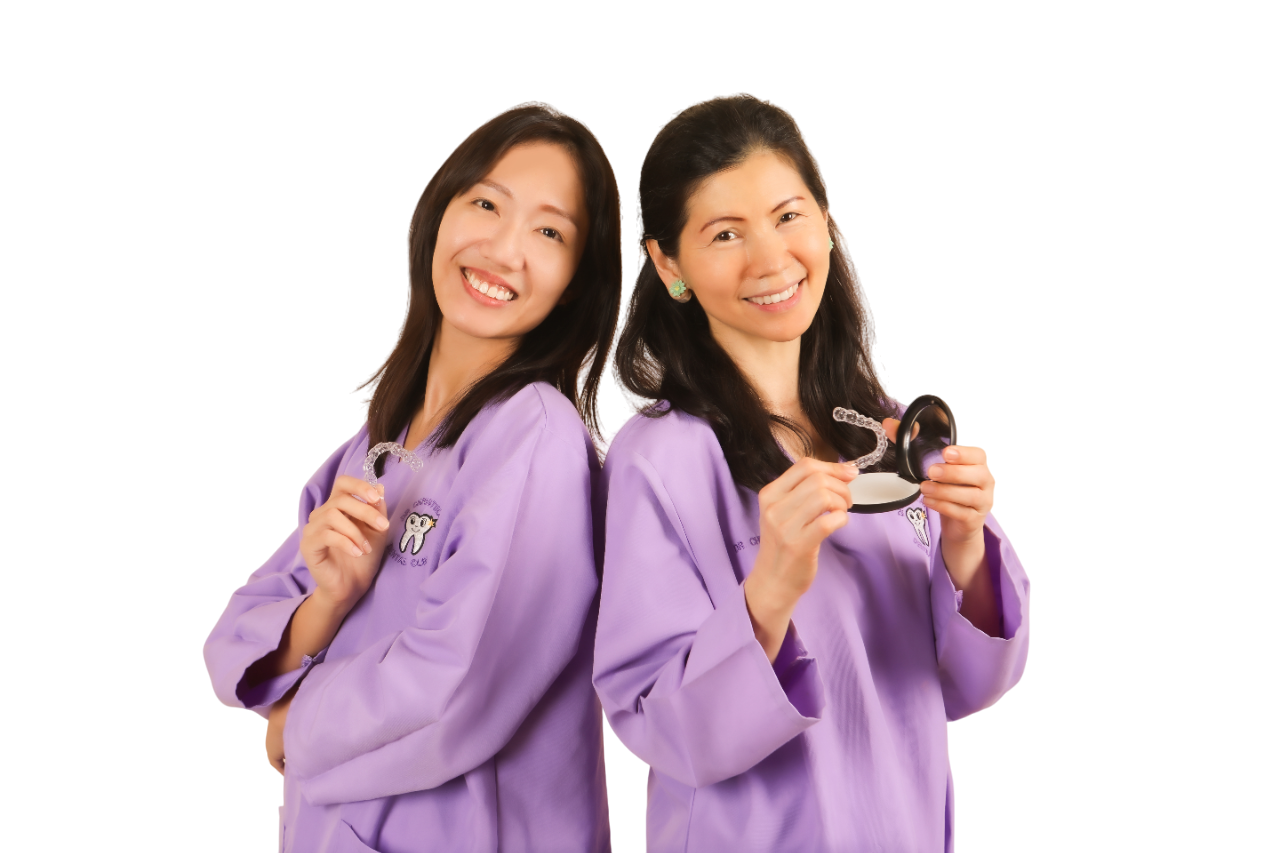
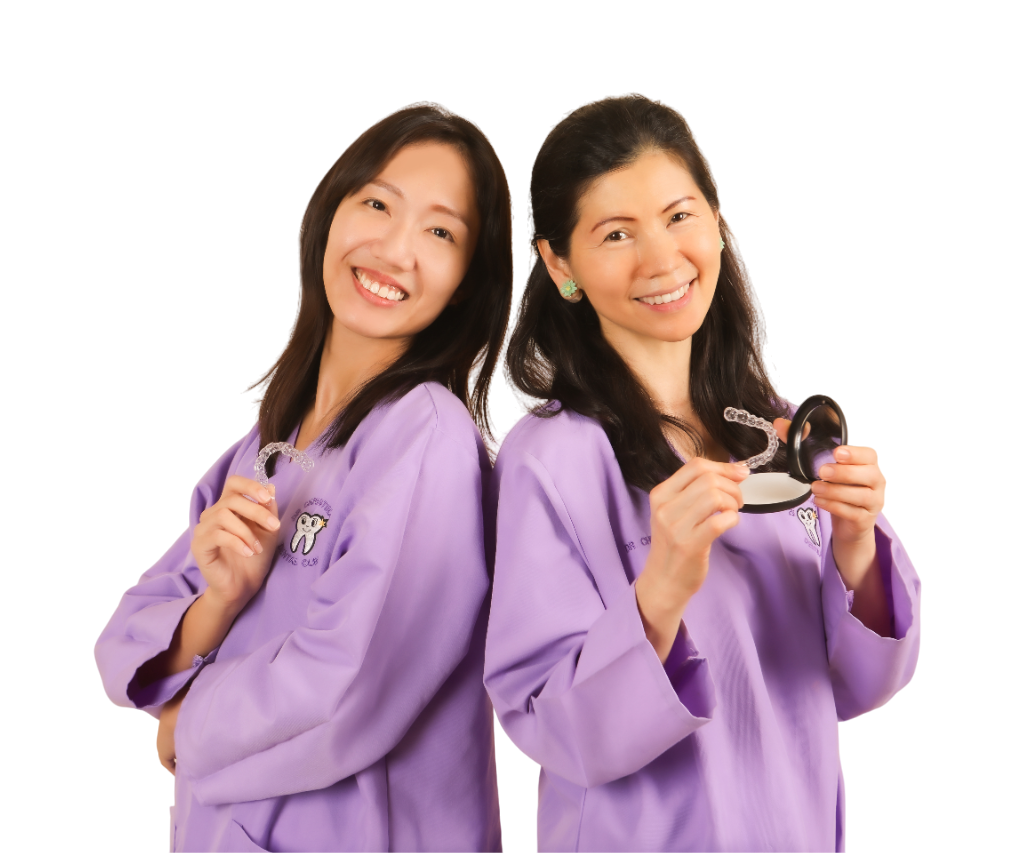
change hero section of index

diff --git a/index.html b/index.html
@@ -16,36 +16,83 @@
 <body class="home-page">
     <div id="navbar-placeholder"></div>
     
-    <div id="home" class="container-fluid px-5 d-flex flex-column" style="min-height: calc(100vh - 76px); padding-top: 76px;">
-        <div class="container-xxl mx-auto h-100">
-            <div class="row h-100">
-                <div class="col-12 col-lg-6 d-flex flex-column gap-4 animate-down pt-0">
-                    <h1 class="display-2 fw-bold animate-down">
-                        Say <span class="text-primary">👋</span> Goodbye<br>
-                        to Dental Problems,<br>
-                        We Value Your Smile <span class="text-primary">✨</span>
-                    </h1>
-                    <div class="schedule-btn-container animate-left delay-2">
-                        <a href="https://wa.me/60135644066?text=Hi,%20I'm%20interested%20in%20scheduling%20a%20dental%20appointment.%20Could%20you%20please%20help%20me%20with%20the%20available%20time%20slots?" 
-                           target="_blank" 
-                           rel="noopener noreferrer" 
-                           class="btn btn-lg px-4 py-2 fw-bold d-inline-flex align-items-center gap-2 schedule-btn">
-                            <svg xmlns="http://www.w3.org/2000/svg" width="20" height="20" fill="currentColor" class="bi bi-whatsapp" viewBox="0 0 16 16">
-                                <path d="M13.601 2.326A7.854 7.854 0 0 0 7.994 0C3.627 0 .068 3.558.064 7.926c0 1.399.366 2.76 1.057 3.965L0 16l4.204-1.102a7.933 7.933 0 0 0 3.79.965h.004c4.368 0 7.926-3.558 7.93-7.93A7.898 7.898 0 0 0 13.6 2.326zM7.994 14.521a6.573 6.573 0 0 1-3.356-.92l-.24-.144-2.494.654.666-2.433-.156-.251a6.56 6.56 0 0 1-1.007-3.505c0-3.626 2.957-6.584 6.591-6.584a6.56 6.56 0 0 1 4.66 1.931 6.557 6.557 0 0 1 1.928 4.66c-.004 3.639-2.961 6.592-6.592 6.592zm3.615-4.934c-.197-.099-1.17-.578-1.353-.646-.182-.065-.315-.099-.445.099-.133.197-.513.646-.627.775-.114.133-.232.148-.43.05-.197-.1-.836-.308-1.592-.985-.59-.525-.985-1.175-1.103-1.372-.114-.198-.011-.304.088-.403.087-.088.197-.232.296-.346.1-.114.133-.198.198-.33.065-.134.034-.248-.015-.347-.05-.099-.445-1.076-.612-1.47-.16-.389-.323-.335-.445-.34-.114-.007-.247-.007-.38-.007a.729.729 0 0 0-.529.247c-.182.198-.691.677-.691 1.654 0 .977.71 1.916.81 2.049.098.133 1.394 2.132 3.383 2.992.47.205.84.326 1.129.418.475.152.904.129 1.246.08.38-.058 1.171-.48 1.338-.943.164-.464.164-.86.114-.943-.049-.084-.182-.133-.38-.232z"/>
-                            </svg>
-                            Schedule a Visit
-                        </a>
+    <div id="home" class="container-fluid px-5 position-relative overflow-hidden">
+        <div class="container-xxl mx-auto py-5">
+            <div class="row align-items-center">
+                <!-- Text Column -->
+                <div class="col-12 col-lg-6 d-flex flex-column">
+                    <div class="mb-4">
+                        <h1 class="display-2 fw-bold mb-2">
+                            Say <span class="text-primary">👋</span> Goodbye<br>
+                            to Dental Problems,<br>
+                            We Value Your Smile <span class="text-primary">✨</span>
+                        </h1>
+                        <p class="text-secondary fw-bold">
+                            Dr Christina Dental Clinic - Professional dental care for your whole family's healthy smiles.
+                        </p>
+                    </div>
+                    
+                    <div class="d-flex flex-column gap-4">
+                        <div class="d-flex align-items-center gap-3">
+                            <!-- WhatsApp button -->
+                            <a href="https://wa.me/60135644066?text=Hi,%20I'm%20interested%20in%20scheduling%20a%20dental%20appointment.%20Could%20you%20please%20help%20me%20with%20the%20available%20time%20slots?" 
+                               target="_blank" 
+                               rel="noopener noreferrer" 
+                               class="btn px-4 py-2 fw-bold d-inline-flex align-items-center gap-2 schedule-btn"
+                               style="width: fit-content; border-radius: 50px;">
+                                <svg xmlns="http://www.w3.org/2000/svg" width="20" height="20" fill="currentColor" class="bi bi-whatsapp" viewBox="0 0 16 16">
+                                    <path d="M13.601 2.326A7.854 7.854 0 0 0 7.994 0C3.627 0 .068 3.558.064 7.926c0 1.399.366 2.76 1.057 3.965L0 16l4.204-1.102a7.933 7.933 0 0 0 3.79.965h.004c4.368 0 7.926-3.558 7.93-7.93A7.898 7.898 0 0 0 13.6 2.326zM7.994 14.521a6.573 6.573 0 0 1-3.356-.92l-.24-.144-2.494.654.666-2.433-.156-.251a6.56 6.56 0 0 1-1.007-3.505c0-3.626 2.957-6.584 6.591-6.584a6.56 6.56 0 0 1 4.66 1.931 6.557 6.557 0 0 1 1.928 4.66c-.004 3.639-2.961 6.592-6.592 6.592zm3.615-4.934c-.197-.099-1.17-.578-1.353-.646-.182-.065-.315-.099-.445.099-.133.197-.513.646-.627.775-.114.133-.232.148-.43.05-.197-.1-.836-.308-1.592-.985-.59-.525-.985-1.175-1.103-1.372-.114-.198-.011-.304.088-.403.087-.088.197-.232.296-.346.1-.114.133-.198.198-.33.065-.134.034-.248-.015-.347-.05-.099-.445-1.076-.612-1.47-.16-.389-.323-.335-.445-.34-.114-.007-.247-.007-.38-.007a.729.729 0 0 0-.529.247c-.182.198-.691.677-.691 1.654 0 .977.71 1.916.81 2.049.098.133 1.394 2.132 3.383 2.992.47.205.84.326 1.129.418.475.152.904.129 1.246.08.38-.058 1.171-.48 1.338-.943.164-.464.164-.86.114-.943-.049-.084-.182-.133-.38-.232z"/>
+                                </svg>
+                                Book Now
+                            </a>
+                            
+                            <!-- Employee Images -->
+                            <div class="d-flex align-items-center">
+                                <img src="assets/images/emp1.png" alt="Employee 1" style="width: 40px; height: 40px; border-radius: 50%; border: 2px solid white; margin-right: -12px;">
+                                <img src="assets/images/emp2.png" alt="Employee 2" style="width: 40px; height: 40px; border-radius: 50%; border: 2px solid white; margin-right: -12px;">
+                                <img src="assets/images/emp3.png" alt="Employee 3" style="width: 40px; height: 40px; border-radius: 50%; border: 2px solid white;">
+                                <div class="ms-2 text-secondary d-flex flex-column" style="font-size: 0.9rem;">
+                                    <span class="fw-bold">+3</span>
+                                    <span>Healthcare Team</span>
+                                </div>
+                            </div>
+                        </div>
+                        
+                        <!-- Social Media Links -->
+                        <div class="d-flex align-items-center gap-3">
+                            <a href="https://wa.me/60135644066" 
+                               target="_blank" 
+                               rel="noopener noreferrer"
+                               class="text-secondary"
+                               style="font-size: 1.5rem;">
+                                <i class="fab fa-whatsapp"></i>
+                            </a>
+                            <a href="https://www.instagram.com/drchristina.dentalclinic/" 
+                               target="_blank" 
+                               rel="noopener noreferrer"
+                               class="text-secondary"
+                               style="font-size: 1.5rem;">
+                                <i class="fab fa-instagram"></i>
+                            </a>
+                            <a href="https://www.facebook.com/profile.php?id=100063554743281" 
+                               target="_blank" 
+                               rel="noopener noreferrer"
+                               class="text-secondary"
+                               style="font-size: 1.3rem;">
+                                <i class="fab fa-facebook-f"></i>
+                            </a>
+                        </div>
                     </div>
                 </div>
                 
-                <div class="col-12 col-lg-6 pt-5 pt-lg-0 position-relative">
-                    <div class="position-relative animate-up delay-2 pb-5 mobile-full-width">
-                        <!-- Image -->
+                <!-- Image Column -->
+                <div class="col-12 col-lg-6">
+                    <div class="position-relative">
                         <img 
-                            src="assets\images\hero.png" 
-                            alt="Hero Image" 
-                            class="w-100 rounded-4 hero-image mobile-full-width-img" 
-                            style="height: 400px; object-fit: cover;"
+                            src="assets/images/hero.png" 
+                            alt="Dental Care Products" 
+                            class="w-100 rounded-4"
+                            style="height: 600px; object-fit: cover; mask-image: linear-gradient(to bottom, black 80%, transparent 100%); -webkit-mask-image: linear-gradient(to bottom, black 80%, transparent 100%);"
                         >
                     </div>
                 </div>
@@ -218,5 +265,17 @@
     </section>
     <script src="https://cdn.jsdelivr.net/npm/bootstrap@5.3.3/dist/js/bootstrap.bundle.min.js" integrity="sha384-YvpcrYf0tY3lHB60NNkmXc5s9fDVZLESaAA55NDzOxhy9GkcIdslK1eN7N6jIeHz" crossorigin="anonymous"></script>
     <script src="script.js"></script>
+    <style>
+    .social-link {
+        color: var(--bs-primary);
+        font-size: 1.5rem;
+        transition: opacity 0.2s ease;
+    }
+
+    .social-link:hover {
+        opacity: 0.8;
+        color: var(--bs-primary);
+    }
+    </style>
 </body>
 </html>

diff --git a/navbar.html b/navbar.html
@@ -14,9 +14,9 @@
             </svg>
         </label>
 
-        <!-- Desktop navigation -->
-        <div class="collapse navbar-collapse">
-            <ul class="navbar-nav justify-content-end flex-grow-1">
+        <!-- Desktop navigation (centered) -->
+        <div class="collapse navbar-collapse justify-content-center">
+            <ul class="navbar-nav">
                 <li class="nav-item">
                     <a class="nav-link" href="index.html">Home</a>
                 </li>
@@ -31,15 +31,32 @@
                 </li>
             </ul>
         </div>
+
+        <!-- Schedule button (aligned right) -->
+        <a href="https://wa.me/60135644066?text=Hi,%20I'm%20interested%20in%20scheduling%20a%20dental%20appointment.%20Could%20you%20please%20help%20me%20with%20the%20available%20time%20slots?" 
+           target="_blank" 
+           rel="noopener noreferrer" 
+           class="btn px-4 py-2 fw-bold d-none d-lg-inline-flex align-items-center gap-2 schedule-btn"
+           style="width: fit-content; border-radius: 50px;">
+            <svg xmlns="http://www.w3.org/2000/svg" width="20" height="20" fill="currentColor" class="bi bi-whatsapp" viewBox="0 0 16 16">
+                <path d="M13.601 2.326A7.854 7.854 0 0 0 7.994 0C3.627 0 .068 3.558.064 7.926c0 1.399.366 2.76 1.057 3.965L0 16l4.204-1.102a7.933 7.933 0 0 0 3.79.965h.004c4.368 0 7.926-3.558 7.93-7.93A7.898 7.898 0 0 0 13.6 2.326zM7.994 14.521a6.573 6.573 0 0 1-3.356-.92l-.24-.144-2.494.654.666-2.433-.156-.251a6.56 6.56 0 0 1-1.007-3.505c0-3.626 2.957-6.584 6.591-6.584a6.56 6.56 0 0 1 4.66 1.931 6.557 6.557 0 0 1 1.928 4.66c-.004 3.639-2.961 6.592-6.592 6.592zm3.615-4.934c-.197-.099-1.17-.578-1.353-.646-.182-.065-.315-.099-.445.099-.133.197-.513.646-.627.775-.114.133-.232.148-.43.05-.197-.1-.836-.308-1.592-.985-.59-.525-.985-1.175-1.103-1.372-.114-.198-.011-.304.088-.403.087-.088.197-.232.296-.346.1-.114.133-.198.198-.33.065-.134.034-.248-.015-.347-.05-.099-.445-1.076-.612-1.47-.16-.389-.323-.335-.445-.34-.114-.007-.247-.007-.38-.007a.729.729 0 0 0-.529.247c-.182.198-.691.677-.691 1.654 0 .977.71 1.916.81 2.049.098.133 1.394 2.132 3.383 2.992.47.205.84.326 1.129.418.475.152.904.129 1.246.08.38-.058 1.171-.48 1.338-.943.164-.464.164-.86.114-.943-.049-.084-.182-.133-.38-.232z"/>
+            </svg>
+            Book Now
+        </a>
     </div>
     
-    <!-- Move mobile navigation outside container-fluid -->
+    <!-- Mobile navigation -->
     <div class="mobile-nav">
         <ul class="mobile-nav-links">
             <li><a href="index.html">Home</a></li>
             <li><a href="services.html">Services</a></li>
             <li><a href="ourteam.html">Our Team</a></li>
             <li><a href="policies.html">Our Policy</a></li>
+            <li>
+                <a href="https://wa.me/60135644066?text=Hi,%20I'm%20interested%20in%20scheduling%20a%20dental%20appointment.%20Could%20you%20please%20help%20me%20with%20the%20available%20time%20slots?" 
+                   target="_blank" 
+                   rel="noopener noreferrer">Schedule a Visit</a>
+            </li>
         </ul>
     </div>
 </nav> 
